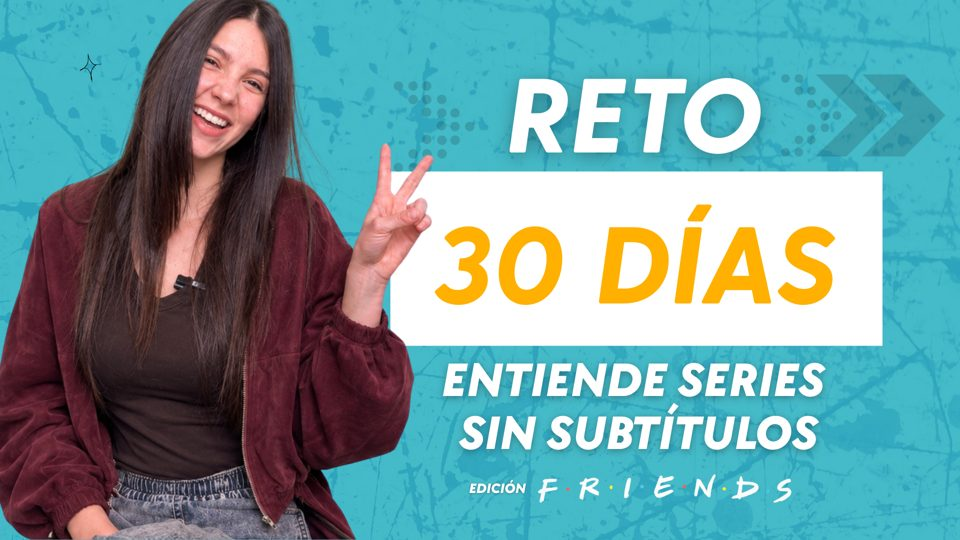
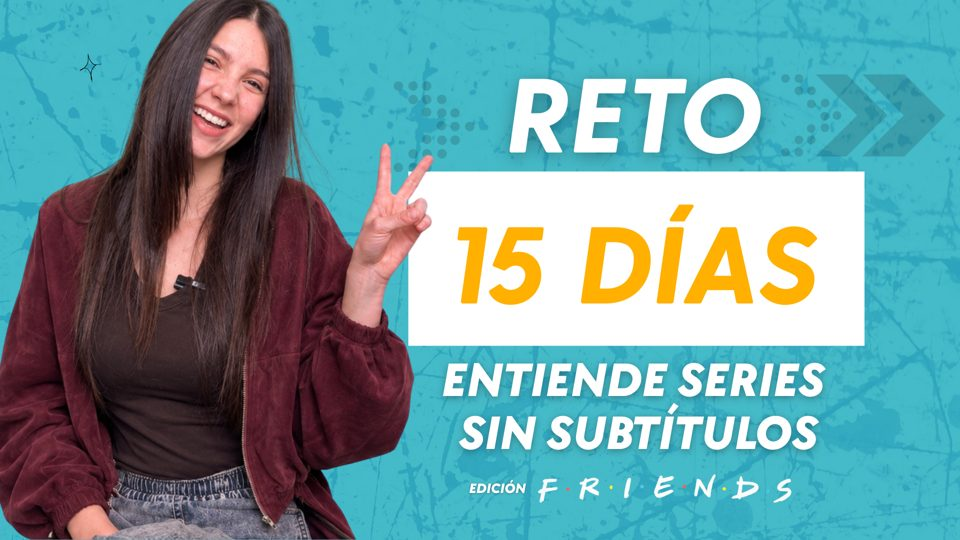
Reto de 15 días edición Friends
Claude-Session: https://claude.ai/code/session_01Kce6nzq4z8fHPogkCLoL3K

Changed region(s): [[0.4062, 0.2963, 0.9375, 0.6519], [0.4062, 0.2963, 0.4375, 0.3556]]

diff --git a/index.html b/index.html
@@ -395,7 +395,7 @@ strong.course { font-weight: 800; color: var(--ink); }
       <p class="levels-sub">Cada vez que llegas a un nivel, desbloqueas un reto exclusivo 🏆</p>
       <ol class="stairs">
         <li><div class="lvcard"><span class="em" aria-hidden="true" data-face="1">👀</span><span class="lv">Nivel 1</span><b>Observer</b></div><span class="prize"><i class="trophy" aria-hidden="true">🏆</i><small>Desbloqueas</small><span class="pz">Reto Despierta tu oído</span></span></li>
-        <li><div class="lvcard"><span class="em" aria-hidden="true" data-face="1">👀</span><span class="lv">Nivel 2</span><b>Observer Alpha</b></div><span class="prize locked"><i class="trophy" aria-hidden="true">🏆</i><small>Próximamente</small><span class="pz">Reto 30 días: entiende series sin subtítulos (edición Friends)</span></span></li>
+        <li><div class="lvcard"><span class="em" aria-hidden="true" data-face="1">👀</span><span class="lv">Nivel 2</span><b>Observer Alpha</b></div><span class="prize locked"><i class="trophy" aria-hidden="true">🏆</i><small>Próximamente</small><span class="pz">Reto 15 días: entiende series sin subtítulos (edición Friends)</span></span></li>
         <li><div class="lvcard"><span class="em" aria-hidden="true" data-face="2">🌱</span><span class="lv">Nivel 3</span><b>Shy Speaker</b></div><span class="prize"><i class="trophy" aria-hidden="true">🏆</i><small>Desbloqueas</small><span class="pz">Reto Calienta motores</span><span class="pz2">+ Reto 30 días de speaking</span></span></li>
         <li><div class="lvcard"><span class="em" aria-hidden="true" data-face="3">🔥</span><span class="lv">Nivel 4</span><b>Brave Speaker</b></div><span class="prize"><i class="trophy" aria-hidden="true">🏆</i><small>Desbloqueas</small><span class="pz">Club de conversación</span></span></li>
         <li><div class="lvcard"><span class="em" aria-hidden="true" data-face="4">🌊</span><span class="lv">Nivel 5</span><b>Fluent Speaker</b></div><span class="prize locked"><i class="trophy" aria-hidden="true">🏆</i><small>Próximamente</small><span class="pz">Reto sorpresa</span></span></li>
@@ -1304,7 +1304,7 @@ strong.course { font-weight: 800; color: var(--ink); }
       ["Es mi primera vez con la pronunciación", startBy.replace(/^Si nunca has tenido acercamiento a la pronunciación y los sonidos en inglés, te recomiendo/, "Te recomiendo")],
       ["Ya tengo bases de pronunciación o vengo de Observer", "Si ya has tenido acercamiento a la pronunciación, significa que ya conoces sonidos como el schwa, las vocales y las consonantes del inglés, y que ya estás familiarizado con las reducciones y los linking sounds 😏. Ese conocimiento te permite escuchar el inglés de una forma diferente: ya sabes por qué las palabras no suenan como se escriben, por qué se pegan unas con otras y por qué algunos sonidos casi desaparecen cuando un nativo habla.\n\nAhora tu reto es lograr que ese conocimiento se conecte con tu oído y logres entender el inglés sin sufrir porque «los nativos hablan muy rápido» 😭.\n\nTe recomiendo que revises el curso Pronunciation Foundation para ver si hay algún sonido que aún no reconoces o algo que quieras repasar. Si no es así, salta directo al curso Shadow the Scene, donde, a través del ejercicio de shadowing, vas a imitar a nativos. En este curso vas a encontrar el Listening Lab, que será el ejercicio más importante para ti, porque es lo que realmente va a entrenar tu oído. No te lo saltes.\n\nNo olvides hacer tu inmersión diaria. Es importante que escuches inglés todos los días: sin esa inmersión, tu cerebro nunca va a tener suficiente contacto con el inglés para lograr entenderlo. Puedes hacer inmersión con el curso Read Along With Me, en el que leemos libros e historias juntos. Revisa el PDF de vocabulario y luego lee conmigo: solo escúchame y sigue el texto con la vista. Puedes reducir la velocidad del video si lo necesitas. Es normal que al principio no puedas ir a mi mismo ritmo. Ve a tu velocidad y, poco a poco, la vas subiendo. También puedes hacer inmersión viendo series, películas o escuchando podcasts."]
     ] } : startBy;
-    const items = [["Por dónde empezar", startVal], ...(L.n === 1 && !vocabObs ? [OBS_VOCAB.items[1], ["Tu premio de este nivel", { text: "Pronto podrás desbloquear el Reto 30 días: entiende series sin subtítulos (edición Friends). Escríbele a mi equipo por WhatsApp para tener el acceso y, una vez esté disponible, te lo haremos saber.", locked: "Reto 30 días: entiende series sin subtítulos (edición Friends)", lockedImg: "img/reto-friends.jpg", lockedHref: "https://wa.me/573023629834?text=Hola%20Santi%2C%20hice%20el%20test%20y%20soy%20un%20Observer%20Alpha.%20Quiero%20tener%20acceso%20al%20Reto%2030%20d%C3%ADas%3A%20entiende%20series%20sin%20subt%C3%ADtulos%20%28edici%C3%B3n%20Friends%29" }]] : L.n === 1 ? [OBS_VOCAB.items[1]] : L.n === 2 ? [] : [["Tu semana", weekVal]]), [L.n === 1 ? "Cuándo volver a hacer el quiz" : r.next ? "Tu meta para subir" : "Tu rol", L.up], ["Nos vemos los martes", "Te espero en la clase en vivo, de 7:00 a 8:00 p. m. (hora Colombia). Ahí practicamos juntos y te doy feedback."]];
+    const items = [["Por dónde empezar", startVal], ...(L.n === 1 && !vocabObs ? [OBS_VOCAB.items[1], ["Tu premio de este nivel", { text: "Pronto podrás desbloquear el Reto 15 días: entiende series sin subtítulos (edición Friends). Escríbele a mi equipo por WhatsApp para tener el acceso y, una vez esté disponible, te lo haremos saber.", locked: "Reto 15 días: entiende series sin subtítulos (edición Friends)", lockedImg: "img/reto-friends.jpg?v=15", lockedHref: "https://wa.me/573023629834?text=Hola%20Santi%2C%20hice%20el%20test%20y%20soy%20un%20Observer%20Alpha.%20Quiero%20tener%20acceso%20al%20Reto%2015%20d%C3%ADas%3A%20entiende%20series%20sin%20subt%C3%ADtulos%20%28edici%C3%B3n%20Friends%29" }]] : L.n === 1 ? [OBS_VOCAB.items[1]] : L.n === 2 ? [] : [["Tu semana", weekVal]]), [L.n === 1 ? "Cuándo volver a hacer el quiz" : r.next ? "Tu meta para subir" : "Tu rol", L.up], ["Nos vemos los martes", "Te espero en la clase en vivo, de 7:00 a 8:00 p. m. (hora Colombia). Ahí practicamos juntos y te doy feedback."]];
     if (vocabObs) items.splice(0, items.length, ...OBS_VOCAB.items);
     // Reading question: "Muy poco" or "La idea general, pero se me escapan muchas palabras" -> vocabulary still needs work.
     else if (r.reading !== null && r.reading <= 1) {
